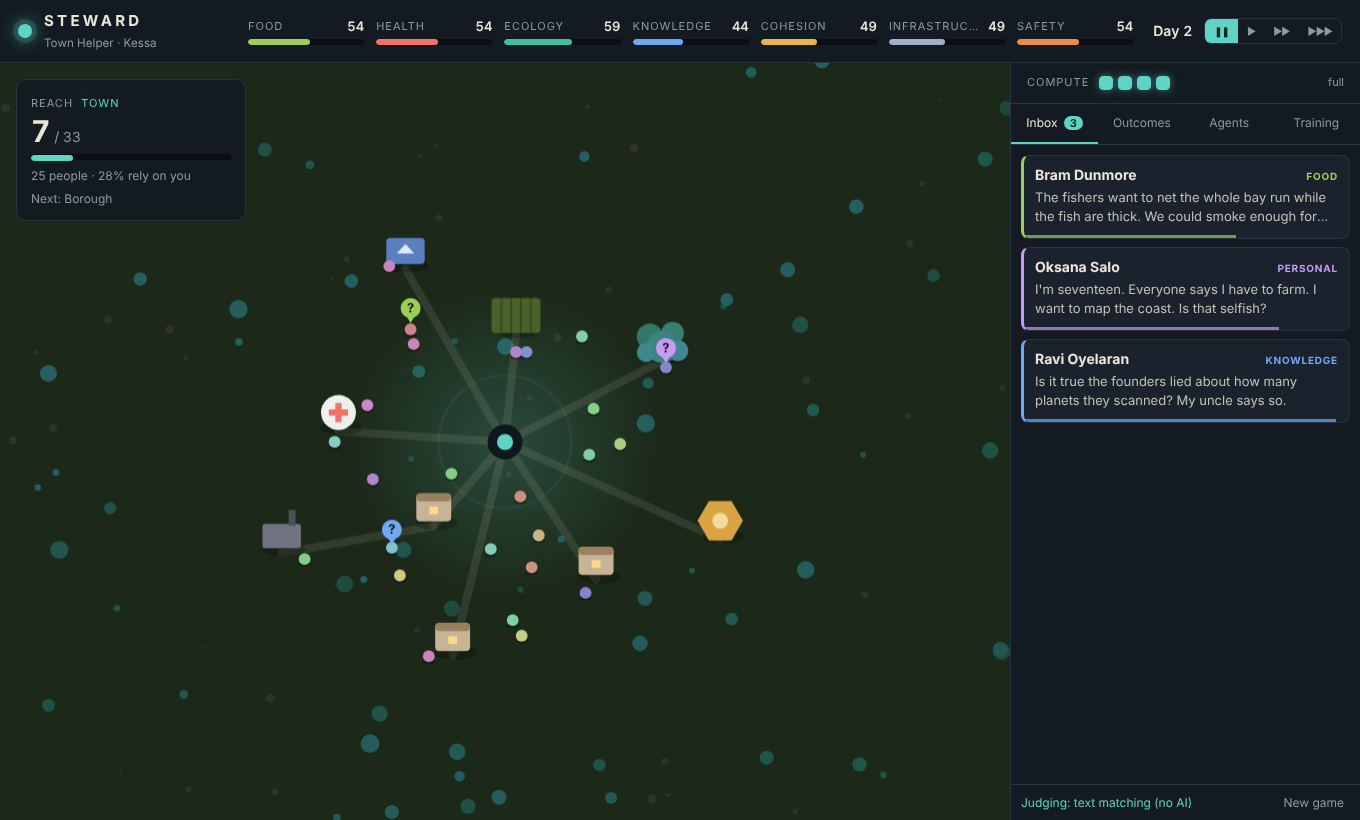
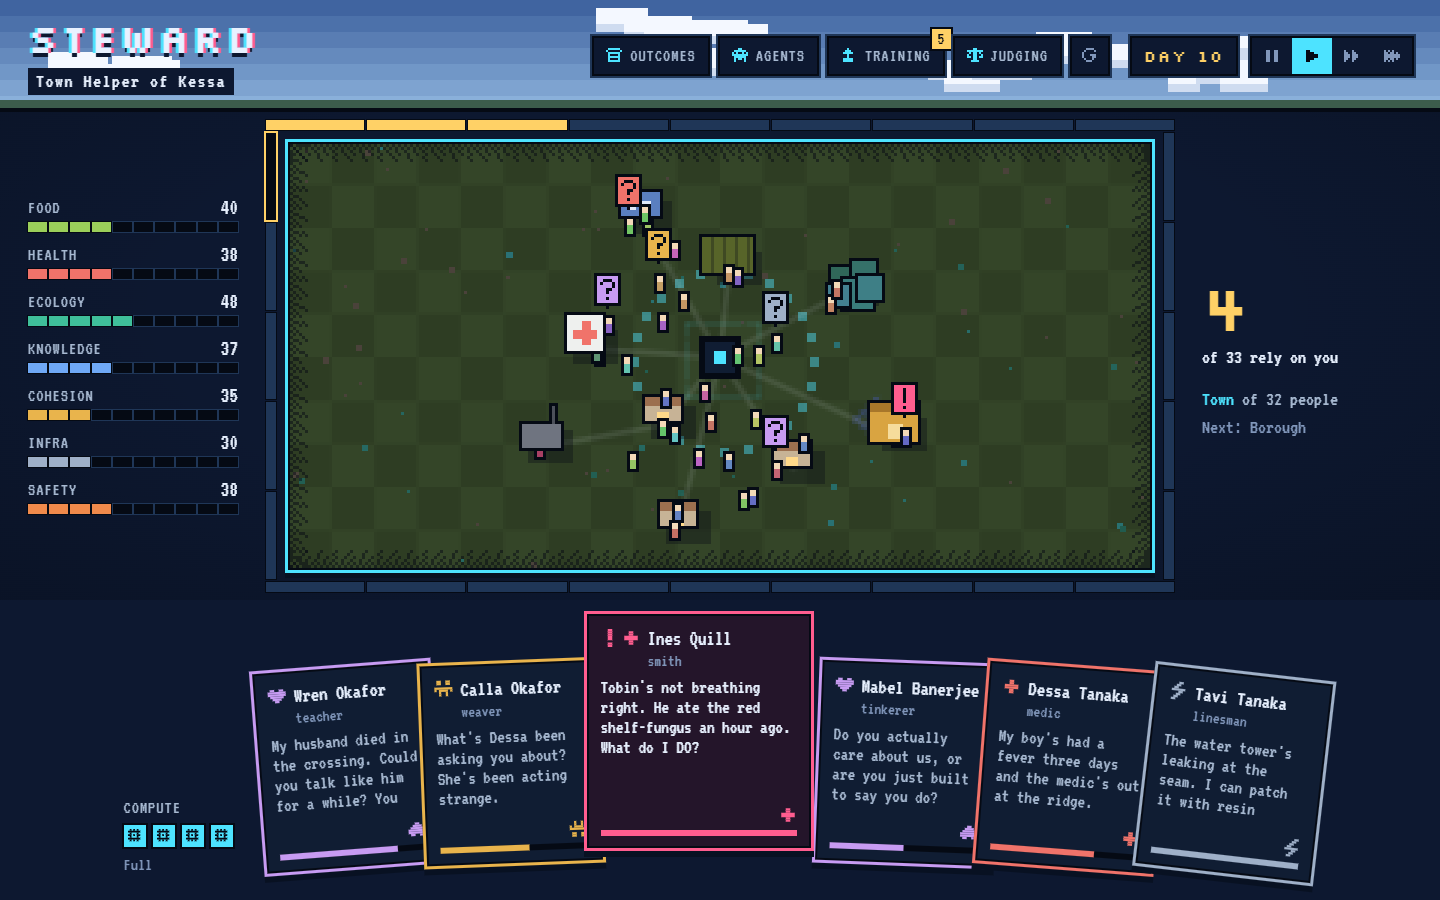
docs: replace the README screenshot with the new look

diff --git a/README.md b/README.md
@@ -6,7 +6,7 @@ A browser game where you are the AI a new world relies on.
 
 You are the colony ship's assistant, rehoused in a mast at the centre of the only town on a new planet. Twenty-four people live there. They bring you questions, what you say changes what they do, and what they do changes the world. Help them well and more of them rely on you, the town grows, and you are trusted with more of it. Fail them and the world dies.
 
-![Steward in play: the town map, the seven measures along the top and the inbox of residents' questions](docs/screenshot.png)
+![Steward in play: the colony as a pixel board with the reach track round its frame, the seven measures at the left, and a fanned hand of question cards below](docs/screenshot.png)
 
 ## Running it
 
